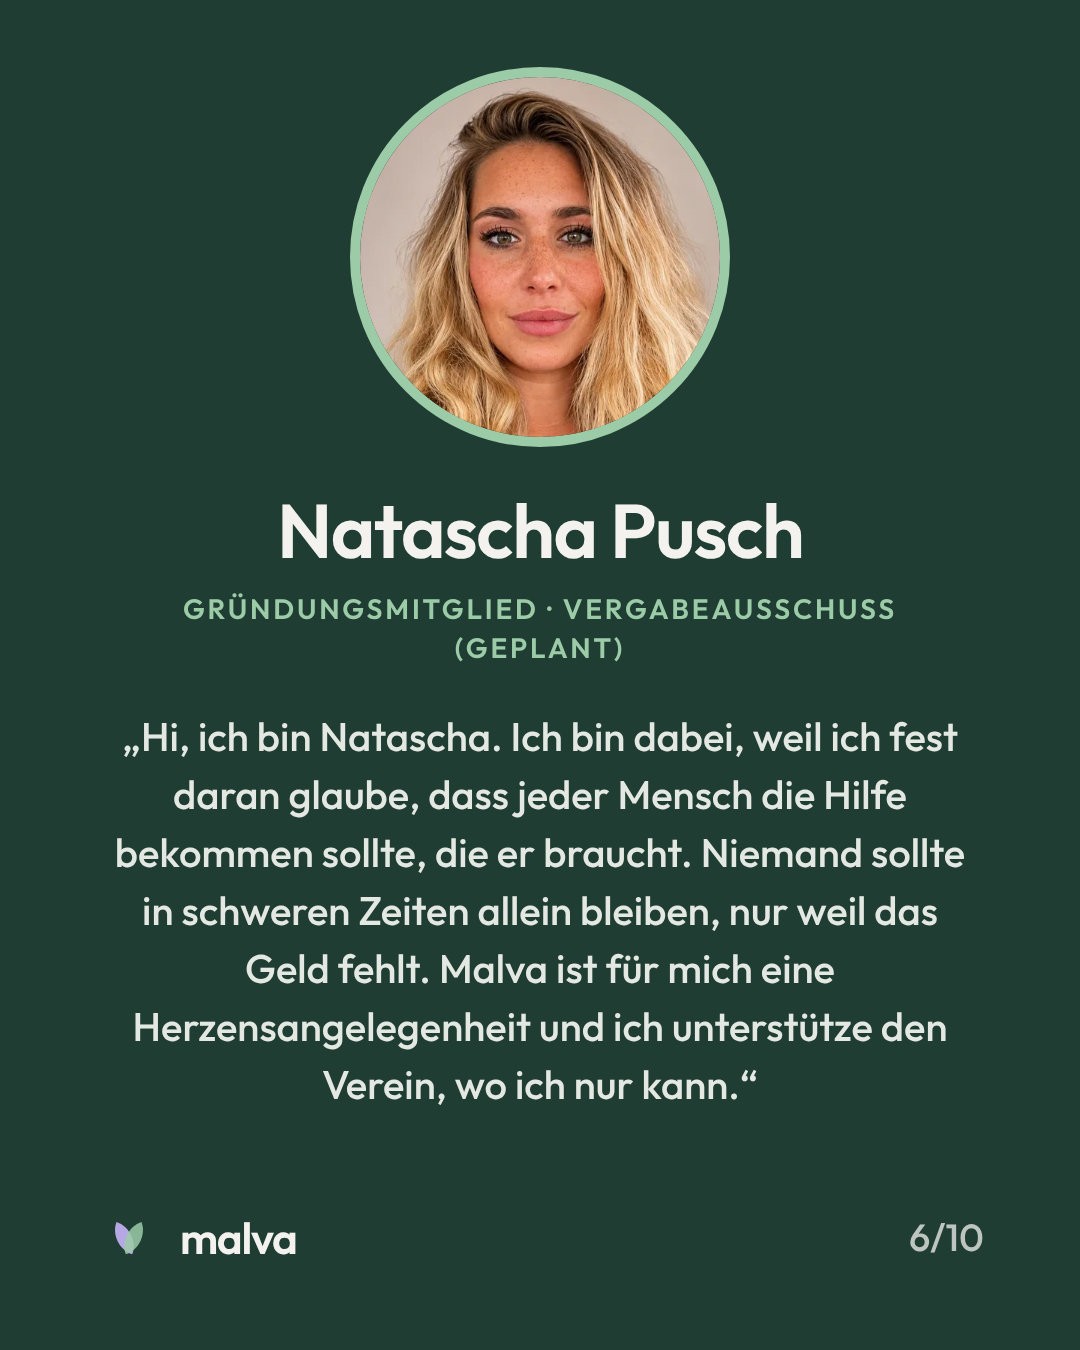
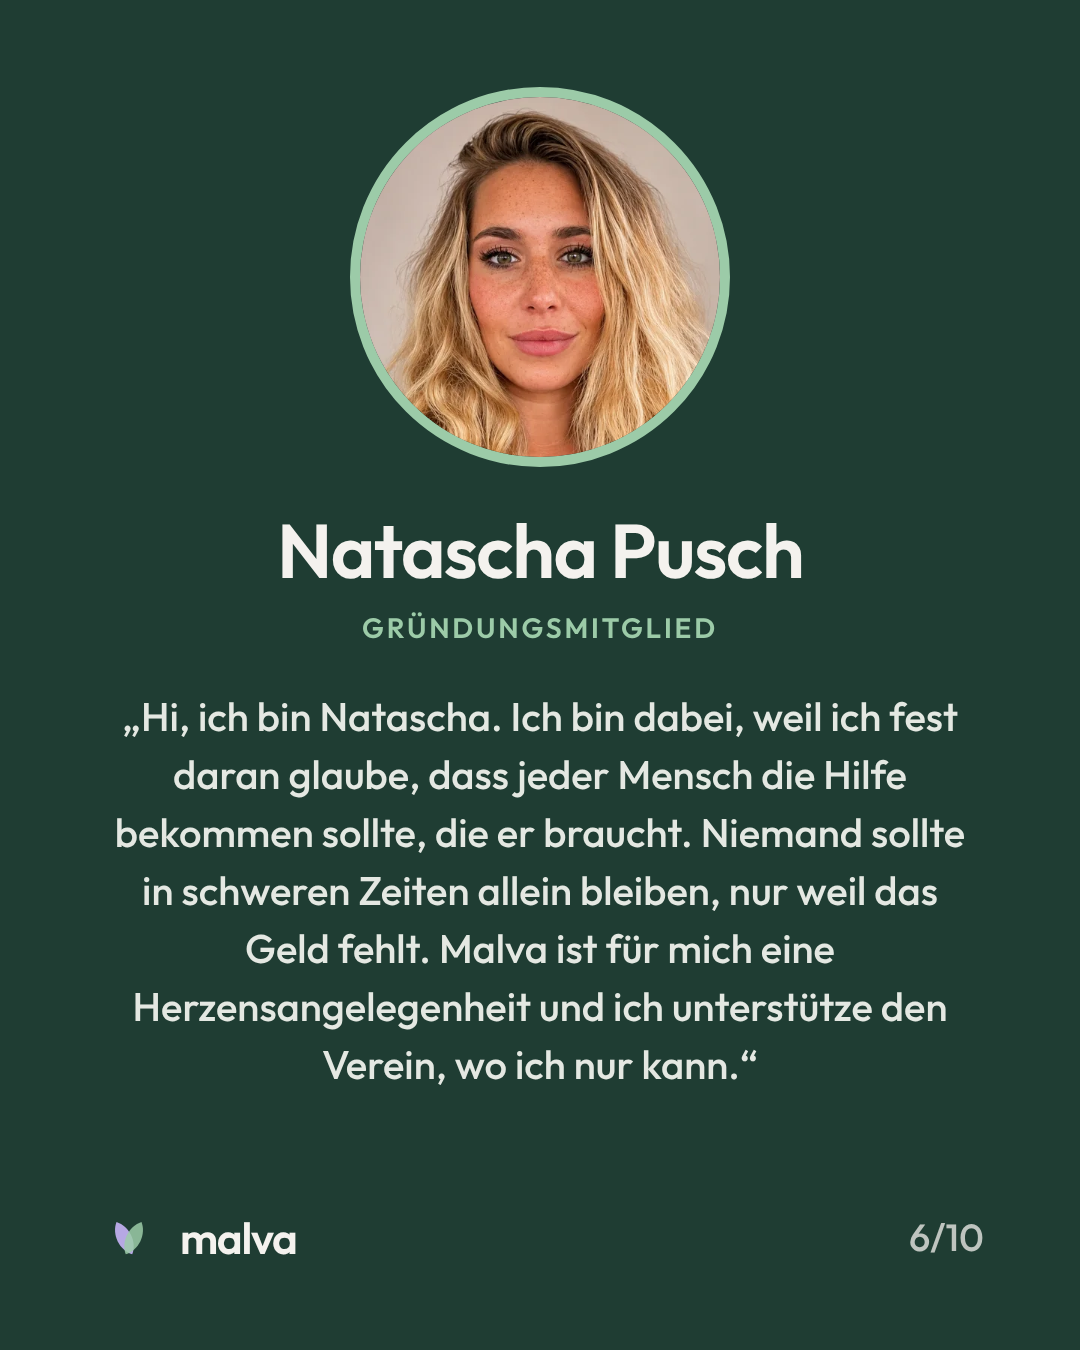
Natascha Pusch und Christina ohne Vergabeausschuss
Claude-Session: https://claude.ai/code/session_015uEer6M6e5oi78ZvJtGjnt

Changed region(s): [[0.0917, 0.4978, 0.8861, 0.84], [0.1528, 0.0311, 0.825, 0.4978]]

diff --git a/malva-website/instagram/team/slides.html b/malva-website/instagram/team/slides.html
@@ -83,14 +83,14 @@ h2{font-weight:600;font-size:82px;line-height:1.12;letter-spacing:-.025em}
 <section class="slide dark m" id="s06">
   <img class="pic" src="../../src/assets/img/natascha-pusch-rund.webp" alt="">
   <p class="nm">Natascha Pusch</p>
-  <p class="rl">Gründungsmitglied · Vergabeausschuss (geplant)</p>
+  <p class="rl">Gründungsmitglied</p>
   <p class="q">„Hi, ich bin Natascha. Ich bin dabei, weil ich fest daran glaube, dass jeder Mensch die Hilfe bekommen sollte, die er braucht. Niemand sollte in schweren Zeiten allein bleiben, nur weil das Geld fehlt. Malva ist für mich eine Herzensangelegenheit und ich unterstütze den Verein, wo ich nur kann.“</p>
   <div class="foot"><div class="brand" data-mark="d"><span>malva</span></div><span class="num">6/10</span></div>
 </section>
 <section class="slide light m" id="s07">
   <img class="pic" src="../../src/assets/img/christina-schifferer-rund.webp" alt="">
   <p class="nm">Christina Schifferer</p>
-  <p class="rl">Gründungsmitglied · Vergabeausschuss (geplant)</p>
+  <p class="rl">Gründungsmitglied</p>
   <p class="q">„Hi, ich bin Christina. Ich weiß, wie viel es bedeutet, im richtigen Moment Unterstützung zu bekommen. Hilfe muss genau dort ankommen, wo sie gebraucht wird und zwar für jeden. Mit Malva möchte ich dazu beitragen, dass niemand warten muss, bis es zu spät ist.“</p>
   <div class="foot"><div class="brand" data-mark="h"><span>malva</span></div><span class="num">7/10</span></div>
 </section>

diff --git a/malva-website/NOTIZEN.md b/malva-website/NOTIZEN.md
@@ -83,6 +83,6 @@ Reihenfolge laut Natascha: erst Homepage fertig, dann Satzung fürs Finanzamt.
 - Kernbotschaft: Malva ist aus ihrem Herzen entstanden; mentale Gesundheit darf kein Privileg von Kontostand sein; alle haben ein erfülltes Leben verdient.
 
 ## Vergabeausschuss (Satzung § 11a, Stand 18.11.2026)
-- 4 Personen: Natascha Helbig (Vorsitz), Christine Franz (Kasse), Natascha Pusch, Christina Schifferer. Satzung § 11a: Vorsitz + Kasse + 2–3 weitere ohne Vorstandsamt (von der Mitgliederversammlung gewählt). Bei Gleichstand: abgelehnt bzw. neu beraten.
+- Bisher fest: Natascha Helbig (Vorsitz), Christine Franz (Kasse). OFFEN: 2–3 Mitglieder ohne Vorstandsamt (laut Satzung § 11a nötig). Satzung § 11a: Vorsitz + Kasse + 2–3 weitere ohne Vorstandsamt (von der Mitgliederversammlung gewählt). Bei Gleichstand: abgelehnt bzw. neu beraten.
 - Mehrheit; jede Bewilligung braucht mindestens eine Zustimmung von außerhalb des Vorstands. Befangene wirken nicht mit. Schweigepflicht schriftlich.
 - Vorstand macht Vergaberichtlinien und zahlt aus.
